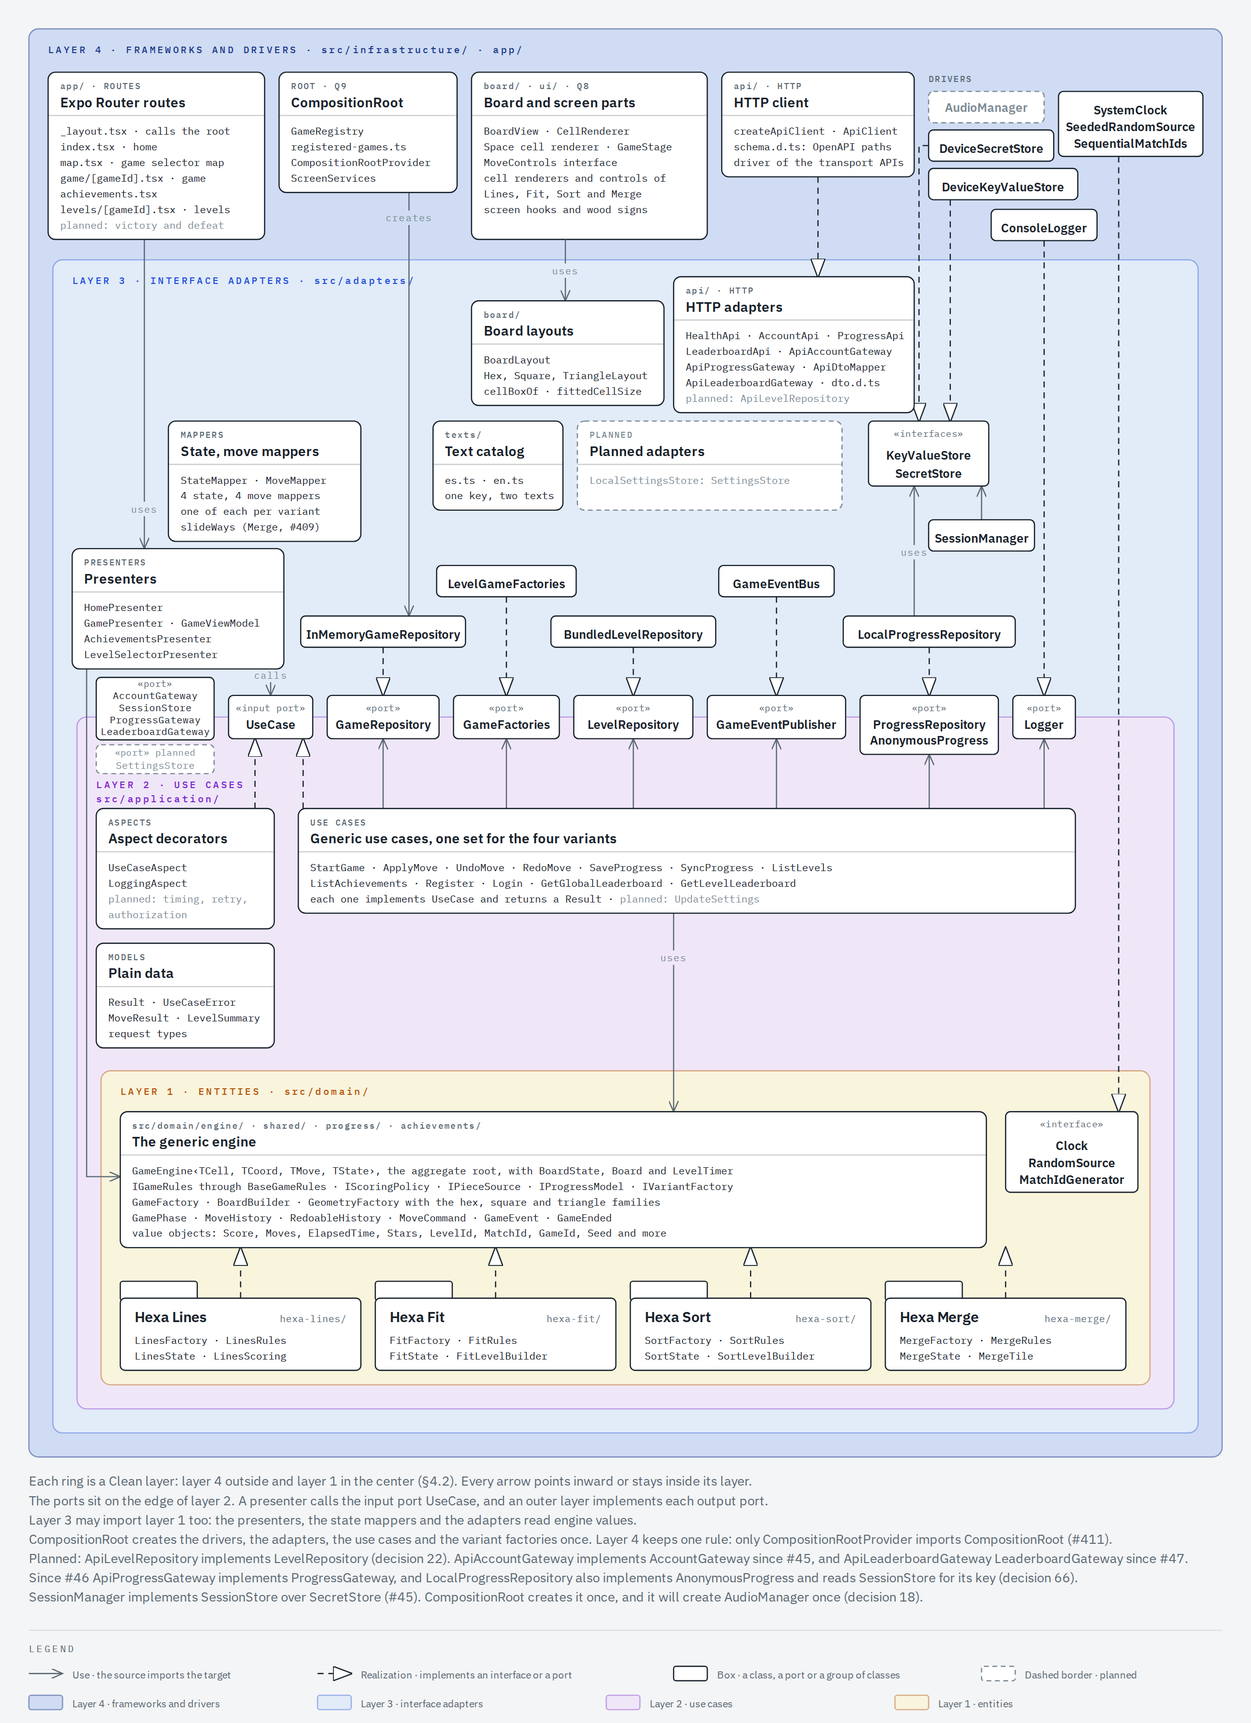
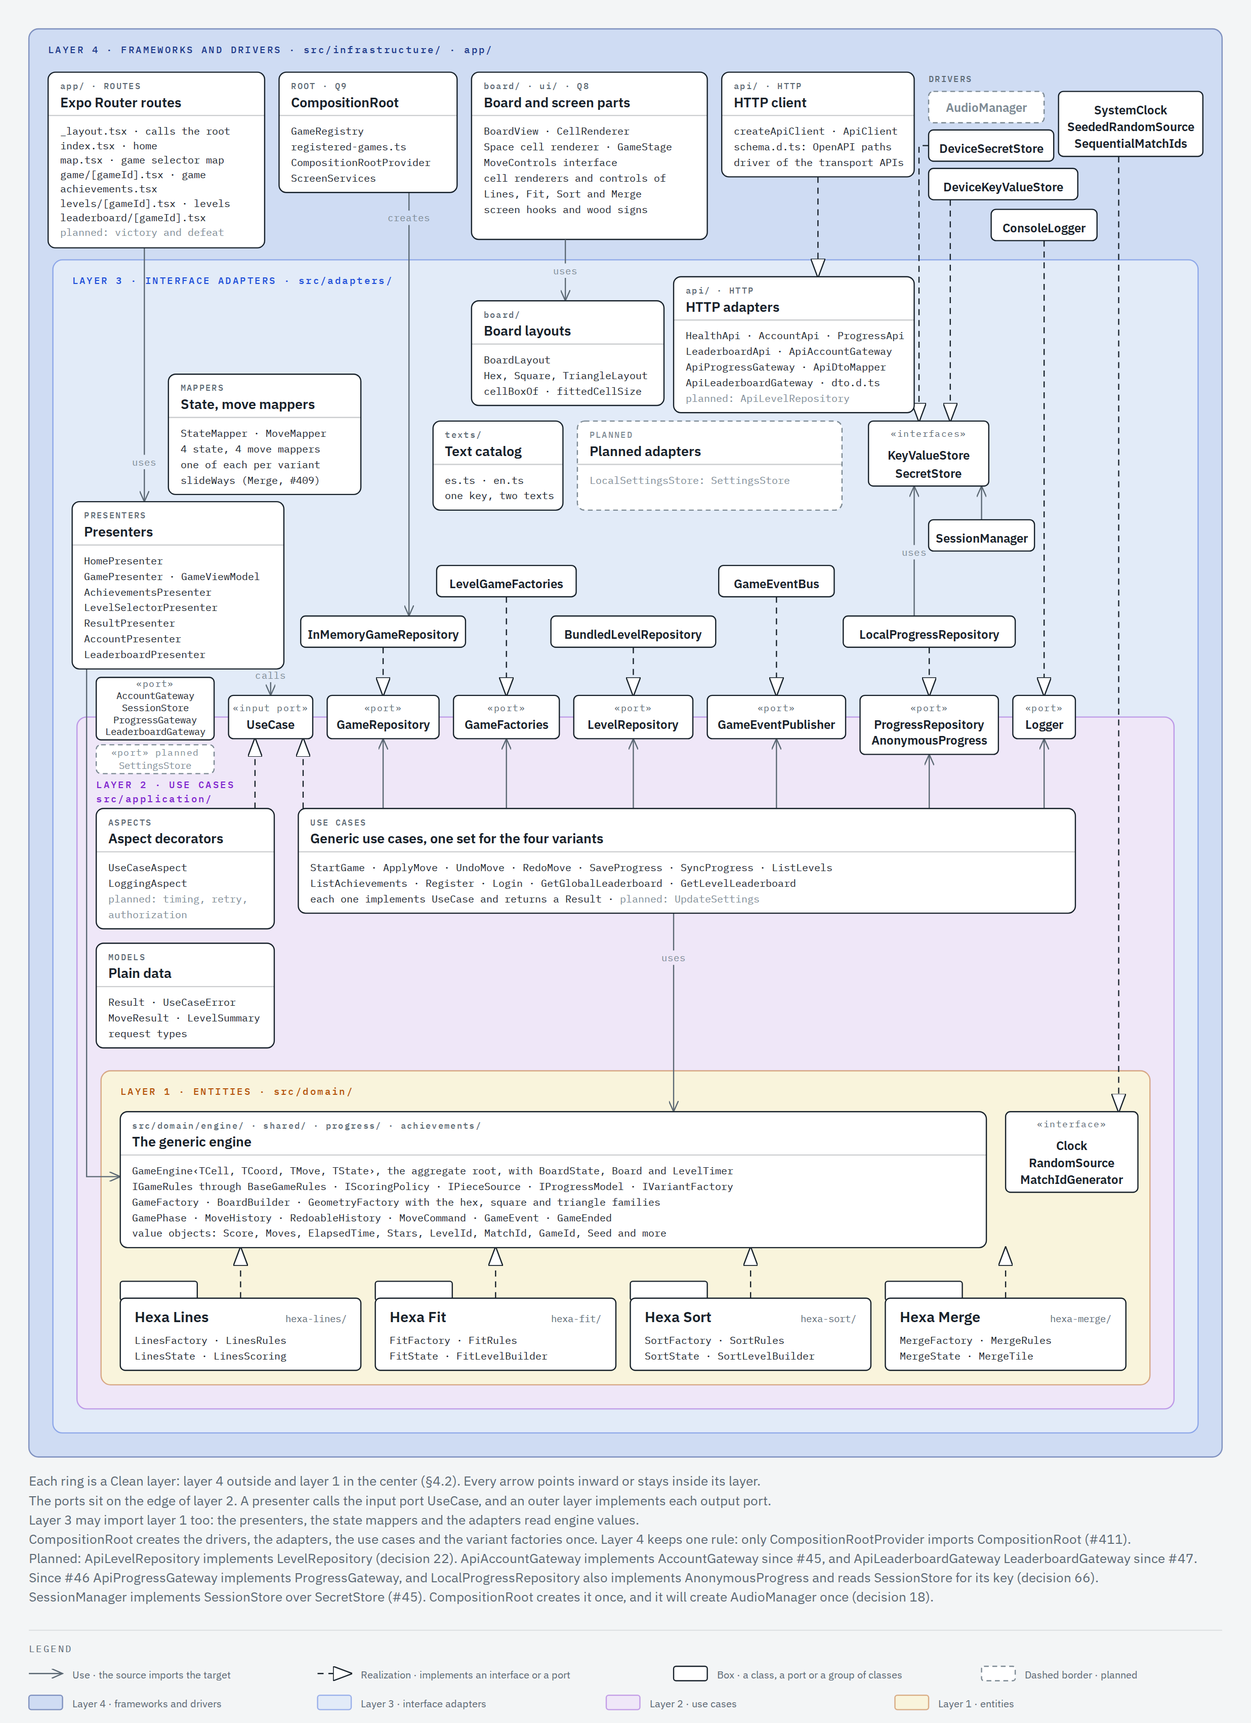
docs(leaderboard): name the boards in the README, layer view, changelog and AI usage (#47)

diff --git a/docs/architecture/layers/views/layers-1-clean.html b/docs/architecture/layers/views/layers-1-clean.html
@@ -220,7 +220,7 @@
         <!-- Dependencies. A use points from the importer to the imported part. A realization points from an implementation to its interface. Every line points inward or stays inside one layer. -->
         <!-- The routes use the presenters: use, from layer 4 into layer 3 -->
         <path
-          d="M120 199 L120 456"
+          d="M120 206 L120 417"
           fill="none"
           stroke="#5b6873"
           stroke-width="1"
@@ -467,10 +467,10 @@
           marker-end="url(#layers-triangle)"
         />
         <!-- Line labels: a verb on a line that is no import of a contract -->
-        <rect x="104.8" y="417" width="30.4" height="12" rx="2" fill="#e2ebf8" />
+        <rect x="104.8" y="378" width="30.4" height="12" rx="2" fill="#e2ebf8" />
         <text
           x="120"
-          y="426"
+          y="387"
           fill="#7d8a94"
           font-size="8"
           font-family="'IBM Plex Mono', monospace"
@@ -533,7 +533,7 @@
           x="40"
           y="60"
           width="180"
-          height="139"
+          height="146"
           rx="6"
           fill="#ffffff"
           stroke="#17212a"
@@ -572,7 +572,7 @@
         </text>
         <text
           x="50"
-          y="125"
+          y="124"
           fill="#17212a"
           font-size="8.5"
           font-family="'IBM Plex Mono', monospace"
@@ -581,7 +581,7 @@
         </text>
         <text
           x="50"
-          y="138"
+          y="136"
           fill="#17212a"
           font-size="8.5"
           font-family="'IBM Plex Mono', monospace"
@@ -590,7 +590,7 @@
         </text>
         <text
           x="50"
-          y="151"
+          y="148"
           fill="#17212a"
           font-size="8.5"
           font-family="'IBM Plex Mono', monospace"
@@ -599,7 +599,7 @@
         </text>
         <text
           x="50"
-          y="164"
+          y="160"
           fill="#17212a"
           font-size="8.5"
           font-family="'IBM Plex Mono', monospace"
@@ -608,7 +608,7 @@
         </text>
         <text
           x="50"
-          y="177"
+          y="172"
           fill="#17212a"
           font-size="8.5"
           font-family="'IBM Plex Mono', monospace"
@@ -617,7 +617,16 @@
         </text>
         <text
           x="50"
-          y="190"
+          y="184"
+          fill="#17212a"
+          font-size="8.5"
+          font-family="'IBM Plex Mono', monospace"
+        >
+          leaderboard/[gameId].tsx
+        </text>
+        <text
+          x="50"
+          y="196"
           fill="#7d8a94"
           font-size="8.5"
           font-family="'IBM Plex Mono', monospace"
@@ -1069,7 +1078,7 @@
         <!-- Component: state mappers and move mappers (#405), and the slide ways of Merge (#409) -->
         <rect
           x="140"
-          y="350"
+          y="311"
           width="160"
           height="100"
           rx="6"
@@ -1079,7 +1088,7 @@
         />
         <text
           x="150"
-          y="364"
+          y="325"
           fill="#5b6873"
           font-size="7"
           font-weight="500"
@@ -1090,7 +1099,7 @@
         </text>
         <text
           x="150"
-          y="379"
+          y="340"
           fill="#17212a"
           font-size="11.5"
           font-weight="600"
@@ -1098,10 +1107,10 @@
         >
           State, move mappers
         </text>
-        <line x1="140" y1="386" x2="300" y2="386" stroke="rgba(23,33,42,0.22)" stroke-width="1" />
+        <line x1="140" y1="347" x2="300" y2="347" stroke="rgba(23,33,42,0.22)" stroke-width="1" />
         <text
           x="150"
-          y="402"
+          y="363"
           fill="#17212a"
           font-size="8.5"
           font-family="'IBM Plex Mono', monospace"
@@ -1110,7 +1119,7 @@
         </text>
         <text
           x="150"
-          y="415"
+          y="376"
           fill="#17212a"
           font-size="8.5"
           font-family="'IBM Plex Mono', monospace"
@@ -1119,7 +1128,7 @@
         </text>
         <text
           x="150"
-          y="428"
+          y="389"
           fill="#17212a"
           font-size="8.5"
           font-family="'IBM Plex Mono', monospace"
@@ -1128,7 +1137,7 @@
         </text>
         <text
           x="150"
-          y="441"
+          y="402"
           fill="#17212a"
           font-size="8.5"
           font-family="'IBM Plex Mono', monospace"
@@ -1376,9 +1385,9 @@
         <!-- Component: presenters and view models -->
         <rect
           x="60"
-          y="456"
+          y="417"
           width="176"
-          height="100"
+          height="139"
           rx="6"
           fill="#ffffff"
           stroke="#17212a"
@@ -1386,7 +1395,7 @@
         />
         <text
           x="70"
-          y="470"
+          y="431"
           fill="#5b6873"
           font-size="7"
           font-weight="500"
@@ -1397,7 +1406,7 @@
         </text>
         <text
           x="70"
-          y="485"
+          y="446"
           fill="#17212a"
           font-size="11.5"
           font-weight="600"
@@ -1405,10 +1414,10 @@
         >
           Presenters
         </text>
-        <line x1="60" y1="492" x2="236" y2="492" stroke="rgba(23,33,42,0.22)" stroke-width="1" />
+        <line x1="60" y1="453" x2="236" y2="453" stroke="rgba(23,33,42,0.22)" stroke-width="1" />
         <text
           x="70"
-          y="508"
+          y="469"
           fill="#17212a"
           font-size="8.5"
           font-family="'IBM Plex Mono', monospace"
@@ -1417,7 +1426,7 @@
         </text>
         <text
           x="70"
-          y="521"
+          y="482"
           fill="#17212a"
           font-size="8.5"
           font-family="'IBM Plex Mono', monospace"
@@ -1426,7 +1435,7 @@
         </text>
         <text
           x="70"
-          y="534"
+          y="495"
           fill="#17212a"
           font-size="8.5"
           font-family="'IBM Plex Mono', monospace"
@@ -1435,12 +1444,39 @@
         </text>
         <text
           x="70"
-          y="547"
+          y="508"
           fill="#17212a"
           font-size="8.5"
           font-family="'IBM Plex Mono', monospace"
         >
           LevelSelectorPresenter
+        </text>
+        <text
+          x="70"
+          y="521"
+          fill="#17212a"
+          font-size="8.5"
+          font-family="'IBM Plex Mono', monospace"
+        >
+          ResultPresenter
+        </text>
+        <text
+          x="70"
+          y="534"
+          fill="#17212a"
+          font-size="8.5"
+          font-family="'IBM Plex Mono', monospace"
+        >
+          AccountPresenter
+        </text>
+        <text
+          x="70"
+          y="547"
+          fill="#17212a"
+          font-size="8.5"
+          font-family="'IBM Plex Mono', monospace"
+        >
+          LeaderboardPresenter
         </text>
         <!-- The adapters of the output ports, each one above its port -->
         <!-- Component: InMemoryGameRepository -->

diff --git a/AI_USAGE.md b/AI_USAGE.md
@@ -259,6 +259,7 @@ Each row of the table is one task: the date, the task, the tool that did it, wha
 | 2026-11-27 | #391 + #429 rule comments and texts that disagreed with the code                                                        | Claude Code | A bounded writer pointed the Lines and Merge rule comments at D24 and D23 and corrected six texts and two views with their PNG, citing the code line that proves each new wording; comments and docs only, so no red test. The parent wrote the changelog entry and this row.                                                                                                                                                                                                                                                                                                                                                                                                                                                                                                                                                                                                                                                                                                                                                                                                                                                                                                                                                                                                                                                                                                                                                                                                                                                                                                                                                                                                                                                                                                                                              |
 | 2026-11-27 | #45 sign up and sign in                                                                                                 | Claude Code | Wrote the account client calls with their pact interactions and CI provider job, `Register` and `Login`, the session in the device secure store, the account screen and decision 65 with its views, each test seen red first; the scope cuts are recorded on the issue. The parent wrote the changelog entry and this row.                                                                                                                                                                                                                                                                                                                                                                                                                                                                                                                                                                                                                                                                                                                                                                                                                                                                                                                                                                                                                                                                                                                                                                                                                                                                                                                                                                                                                                                                                                 |
 | 2026-11-27 | #46 progress sync                                                                                                       | Claude Code | A bounded writer built `SyncProgress`, its gateway, the `GameProgress` merge, the Sort timer, the progress key with the owner, the trigger and the pact, each test seen red first; a judgment-day fix made saves and syncs share one queue and kept the owner after a 401; two writers redrew 15 views. The parent wrote the changelog entry and this row.                                                                                                                                                                                                                                                                                                                                                                                                                                                                                                                                                                                                                                                                                                                                                                                                                                                                                                                                                                                                                                                                                                                                                                                                                                                                                                                                                                                                                                                                 | Oscar set the goal and decided the sync trigger and the Sort time on the issue.                                                                                                                  |
+| 2026-11-27 | #47 leaderboards                                                                                                        | Claude Code | A bounded writer built the two leaderboard use cases, their gateway port, `ApiLeaderboardGateway`, the pact interactions, `LeaderboardPresenter`, the screen and its two entry buttons, each test seen red first; it drew the new view `uc-7-leaderboard` and redrew eight class views. A second writer added the route and the presenter to view `layers-1-clean`. The parent wrote the changelog entry, this row and the README fix, and ran judgment-day on the diff.                                                                                                                                                                                                                                                                                                                                                                                                                                                                                                                                                                                                                                                                                                                                                                                                                                                                                                                                                                                                                                                                                                                                                                                                                                                                                                                                                   | Oscar set the goal; the screen place is option A of the queue decision on the issue.                                                                                                             |
 
 - 2026-11-24 — Widen the determinism lint rule ([#324](https://github.com/Hexablock-Suite/hexablock-app/issues/324)). Oscar asked Pi to cover the four named forms. Pi added one diagnostic assertion per form and saw all four fail before widening the rule. Checking the exit code alone would have missed the gap because the fixture already failed on the old forms. Team review is pending.
 

diff --git a/CHANGELOG.md b/CHANGELOG.md
@@ -13,6 +13,7 @@ Each sprint of [`docs/ROADMAP.md`](docs/ROADMAP.md) closes with a version sectio
 
 ### Added
 
+- Leaderboards (APP-FR-14, [#47](https://github.com/Hexablock-Suite/hexablock-app/issues/47); option A on the issue, decision 67): the new screen `app/leaderboard/[gameId].tsx` shows the global board of a game, or the board of one level when the route gets a `levelId`. The map offers a board button for each game, and each completed row of the level selector offers the board of its level. `GetGlobalLeaderboard` and `GetLevelLeaderboard` read the session through `SessionStore` and call the `LeaderboardGateway` port, which `ApiLeaderboardGateway` implements over the transport interface `LeaderboardApi`. `LeaderboardPresenter` shows the rank as the API gives it (ties shared, no reordering) and the username of hexablock-api#230. With no session the screen asks the player to sign in and offers the account screen; a refused token (401) clears only the token, as #46 does, and shows the same text; a level that the API does not hold (404) shows that the level has no board yet. The three new failure codes are `sign-in-required`, `level-has-no-board` and `leaderboard-failed`. The pact pins the two board requests, and decision 67, `flows.md`, the READMEs, eight class views, the new view `uc-7-leaderboard` and view `layers-1-clean` follow, each with its PNG.
 - Progress sync (APP-FR-13, #46): after each save with a session and at sign-in, `SyncProgress` sends the local progress of a game to the backend and merges its answer with the DS-12 rule; the local progress belongs to the last signed-in user (a refused token clears only the token), the progress played with no account merges into the first account that signs in, Sort levels carry their real time, and saves and syncs of one game run in one queue (decision 66).
 - Sign-up and sign-in screen: `Register` and `Login` keep the bearer session of the account in the device secure store, and the account client calls of the API have their pact interactions (#45).
 - `pnpm levels:load` and `pnpm levels:check` for the deploy of a new API (Hexablock-Suite/hexablock-api#158; decision on that issue: the command and the check live here, next to the 37 bundled level files). `levels:load` sends every bundled file, unchanged, in one `PUT /v1/levels` with `BACKEND_URL` and `LEVEL_EDITOR_TOKEN`, and accepts a stored copy with a higher version. `levels:check` reads `GET /v1/levels` and fails when a bundled level has no valid stored copy, or when the stored copy has the same or a lower version and other content; a higher stored version is not a drift (S3-10). The job `contract` now runs a Postgres service and the migrations, signs up a level editor, loads and checks the levels, and syncs a result of a bundled level that it reads back. The README, `AGENTS.md` and S3-02 of `docs/REQUIREMENTS.md` describe the commands and the manual deploy step.

diff --git a/README.md b/README.md
@@ -297,8 +297,8 @@ The cross-cutting concerns of §3.5 are our own decorators over the generic use 
   - `LoggingAspect` logs each call through the `Logger` port. It passes one `UseCaseLogEntry` with the use case name, the outcome, the `UseCaseError` of a failure and the failed deliveries of a success, and formats no message (decision 37, #342). The adapter of layer 4 writes the text. An empty or blank name throws a `RangeError`.
   - `TimingAspect` measures each call with the engine `Clock` and logs it through `Logger`.
   - `RetryAspect` runs the inner use case again while the error of its `Result` is retryable.
-  - `AuthorizationAspect` reads the `SessionStore` port before the use cases that talk to the backend run: `SyncLeaderboard` and the planned `SyncProgress`. `SaveProgress` and `ListLevels` need no session (D27 in `docs/REQUIREMENTS.md`).
-- The composition root gives each use case its aspects in one place, `decorate(useCase, name)` (#323). `wrapInAspects()` builds the chain from the outside in, so the first aspect sees the call first and the result last. Today the chain holds `LoggingAspect` only. A later chain reads, for example, `new LoggingAspect(new AuthorizationAspect(syncLeaderboard))`.
+  - `AuthorizationAspect` is planned and guards no use case today. Each use case that talks to the backend reads the `SessionStore` port itself, because its gateway needs the token: `SyncProgress` since #46 (decision 66), and `GetGlobalLeaderboard` and `GetLevelLeaderboard` since #47 (decision 67). `SaveProgress` and `ListLevels` need no session (D27 in `docs/REQUIREMENTS.md`).
+- The composition root gives each use case its aspects in one place, `decorate(useCase, name)` (#323). `wrapInAspects()` builds the chain from the outside in, so the first aspect sees the call first and the result last. Today the chain holds `LoggingAspect` only. A later chain reads, for example, `new LoggingAspect(new RetryAspect(getGlobalLeaderboard))`.
 
 The use cases are generic, so one aspect covers the four variants, and the use case it wraps holds no line of the aspect's code (APP-NFR-11). An aspect never calls `Date.now`: it reads the time through `Clock` (rule R-domain-determinism). A new aspect extends `UseCaseAspect`. `UseCaseAspect` and `LoggingAspect` are in [`src/application/`](src/application/), and the suite `test/application/logging-aspect.test.ts` wraps the use cases of the four variants with one `LoggingAspect`. The other three aspects are not coded yet. See [view 3.1](docs/architecture/classes.md#view-31-the-use-case-contract-and-its-aspects).
 
